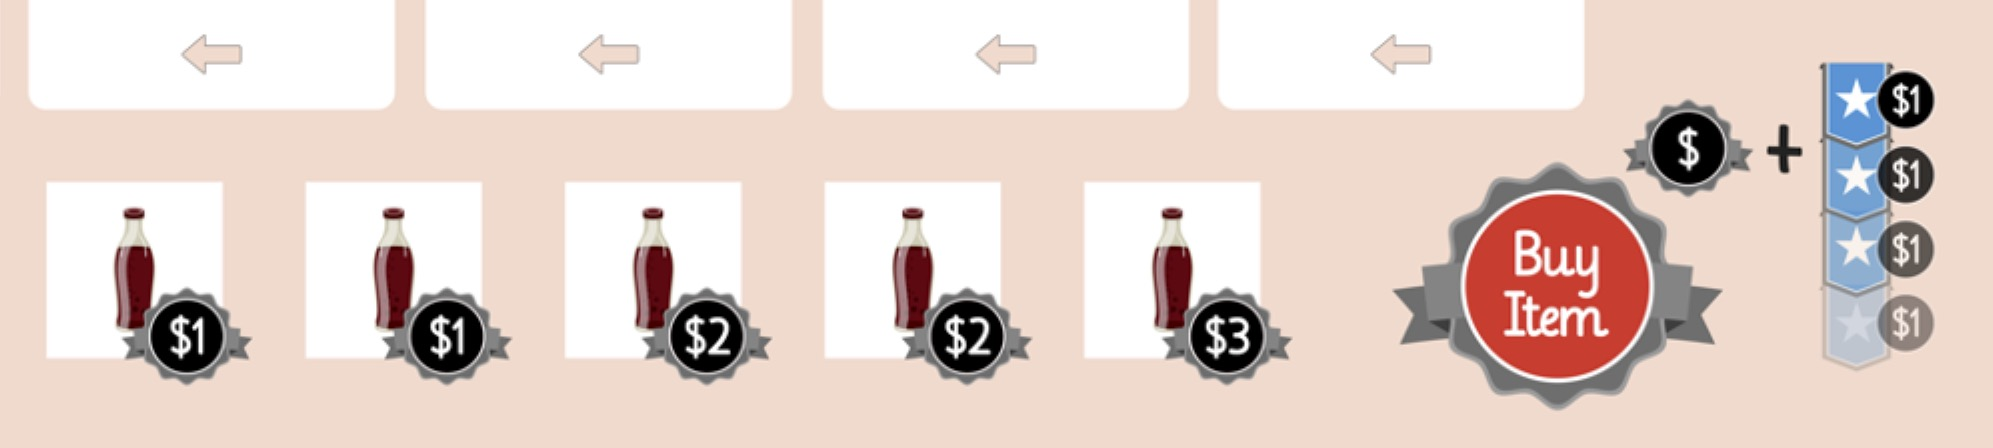
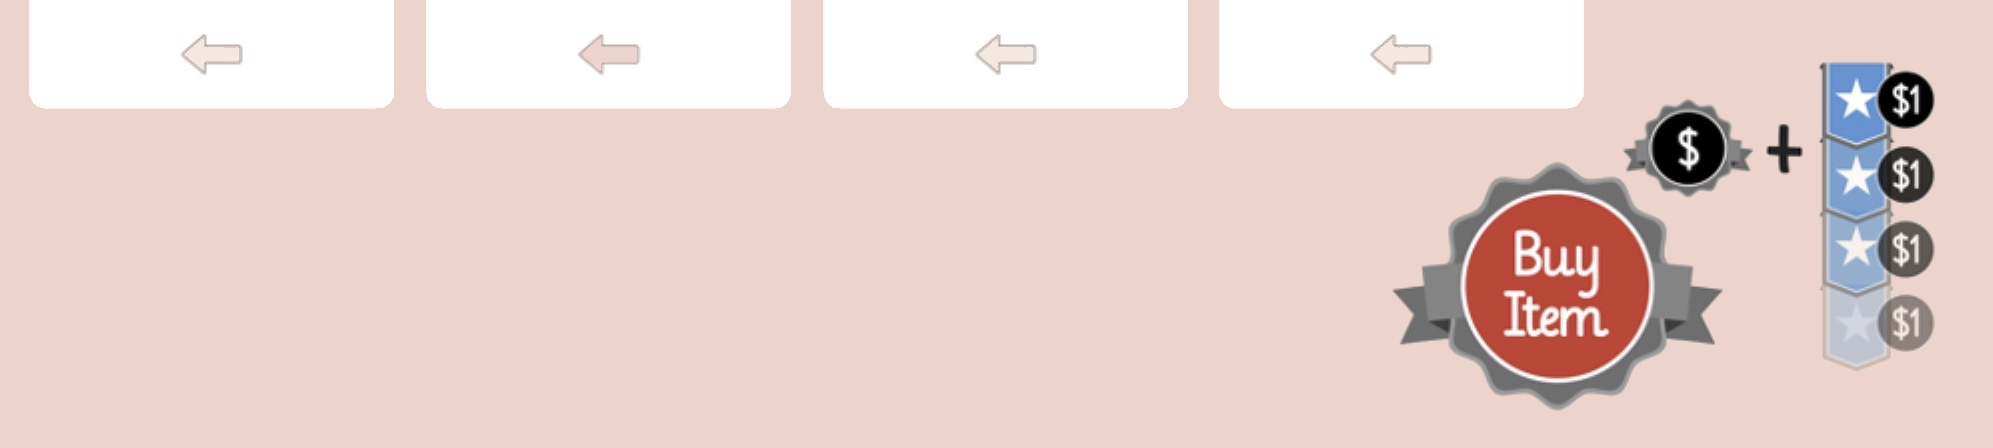
dec4

Changed region(s): [[0.1555, 0.4062, 0.6533, 0.875], [0.0, 0.4062, 0.1244, 0.8438]]

diff --git a/src/views/Collectors.vue b/src/views/Collectors.vue
@@ -15,7 +15,17 @@
           />
         </section>
         <section class="gameboard">
-          <section class="box item">item</section>
+          <section class="item_bottle">
+            <Bottles
+              v-if="players[playerId]"
+              :labels="labels"
+              :player="players[playerId]"
+              :itemsOnSale="itemsOnSale"
+              :marketValues="marketValues"
+              :placement="buyPlacement"
+              @placeBottle="placeBottle('buy', $event)"
+            />
+          </section>
           <section class="box skill">skill</section>
           <section class="box market">market</section>
           <section class="box worker">worker</section>
@@ -89,12 +99,14 @@
 
 import CollectorsCard from "@/components/CollectorsCard.vue";
 import CollectorsBuyActions from "@/components/CollectorsBuyActions.vue";
+import Bottles from "@/components/Bottles.vue";
 
 export default {
   name: "Collectors",
   components: {
     CollectorsCard,
     CollectorsBuyActions,
+    Bottles,
   },
   data: function () {
     return {
@@ -295,15 +307,25 @@ footer a:visited {
 }
 .buy_item {
   position: relative;
-  left: 5vw;
+  left: 13vw;
+  top: 4vh;
 }
-.item {
+.item_bottle {
   background-color: rgb(219, 197, 195);
   grid-column: 2/4;
   grid-row: 1/2;
   background-image: url("/images/items.jpg");
   background-size: 100% 100%;
 }
+.item_bottle >>> .buttons {
+  top: 5vh;
+  left: 2vw;
+}
+.item_bottle >>> .button {
+  width: 7em;
+  height: 7em;
+}
+
 .skill {
   background-color: rgb(208, 226, 205);
   grid-row: 1/4;

diff --git a/src/components/CollectorsBuyActions.vue b/src/components/CollectorsBuyActions.vue
@@ -2,33 +2,13 @@
   <div>
     <h1>{{ labels.buyCard }}</h1>
     <div class="buy-cards">
-      <div v-for="(card, index) in itemsOnSale" :key="index">
+      <div v-for="(card, index) in itemsOnSale" :key="index" class="cardslots">
         <CollectorsCard
           :card="card"
           :availableAction="card.available"
           @doAction="buyCard(card)"
         />
         {{ cardCost(card) }}
-      </div>
-    </div>
-    <div>
-      <div class="buttons" v-for="(p, index) in placement" :key="index">
-        <button
-          style="
-             {
-              width: 60px;
-              height: 60px;
-            }
-          "
-          v-if="p.playerId === null"
-          :disabled="cannotAfford(p.cost)"
-          @click="placeBottle(p)"
-        >
-          ${{ p.cost }}
-        </button>
-        <div v-if="p.playerId !== null">
-          {{ p.playerId }}
-        </div>
       </div>
     </div>
   </div>
@@ -100,9 +80,15 @@ export default {
 </script>
 <!-- Add "scoped" attribute to limit CSS to this component only -->
 <style scoped>
-.buy-cards,
-.buttons {
+.buy-cards {
   display: grid;
   grid-template-columns: repeat(auto-fill, 130px);
+}
+
+.cardslots div {
+  transform: scale(0.5) translate(-50%, -50%);
+  transition: 0.2s;
+  transition-timing-function: ease-out;
+  z-index: 0;
 }
 </style>
